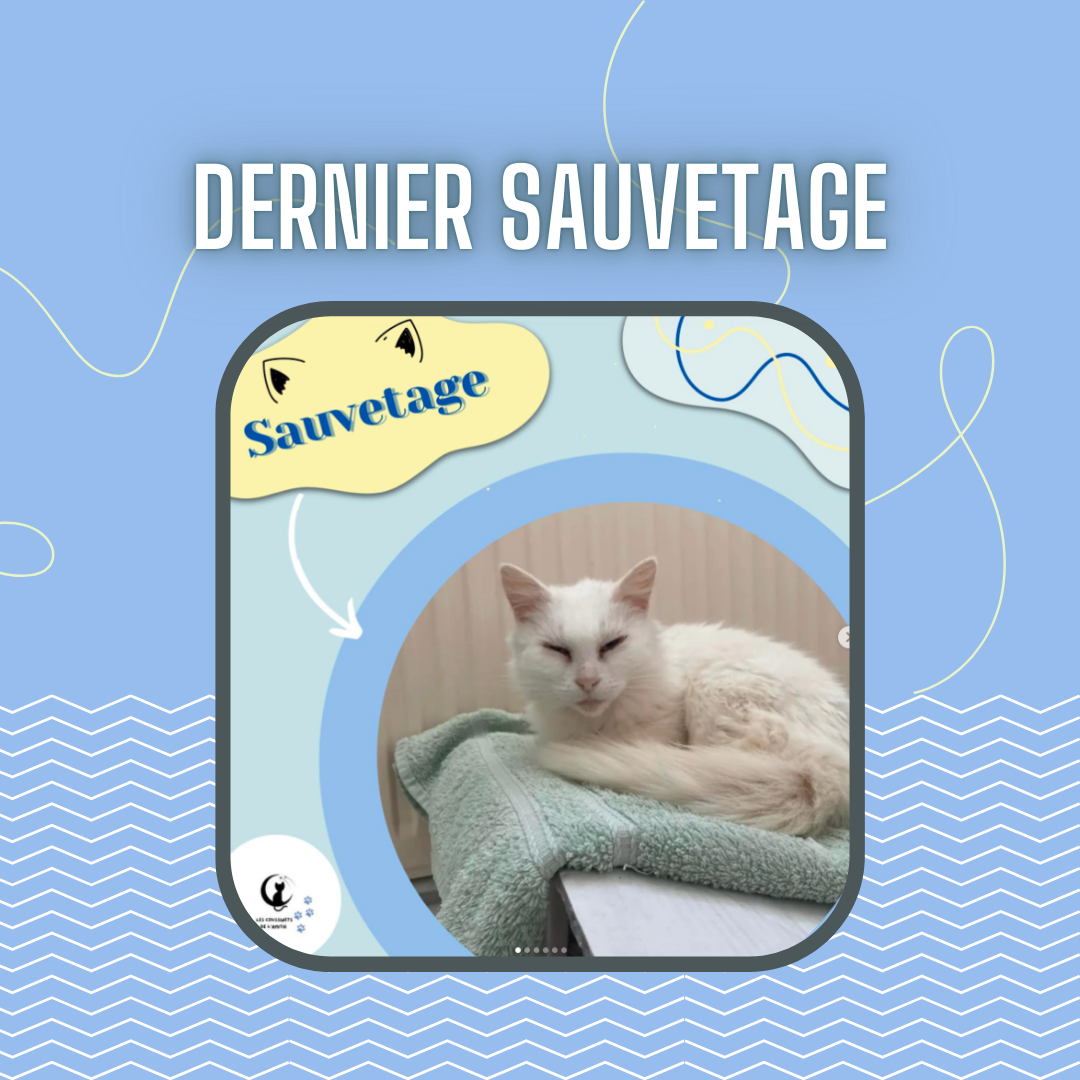
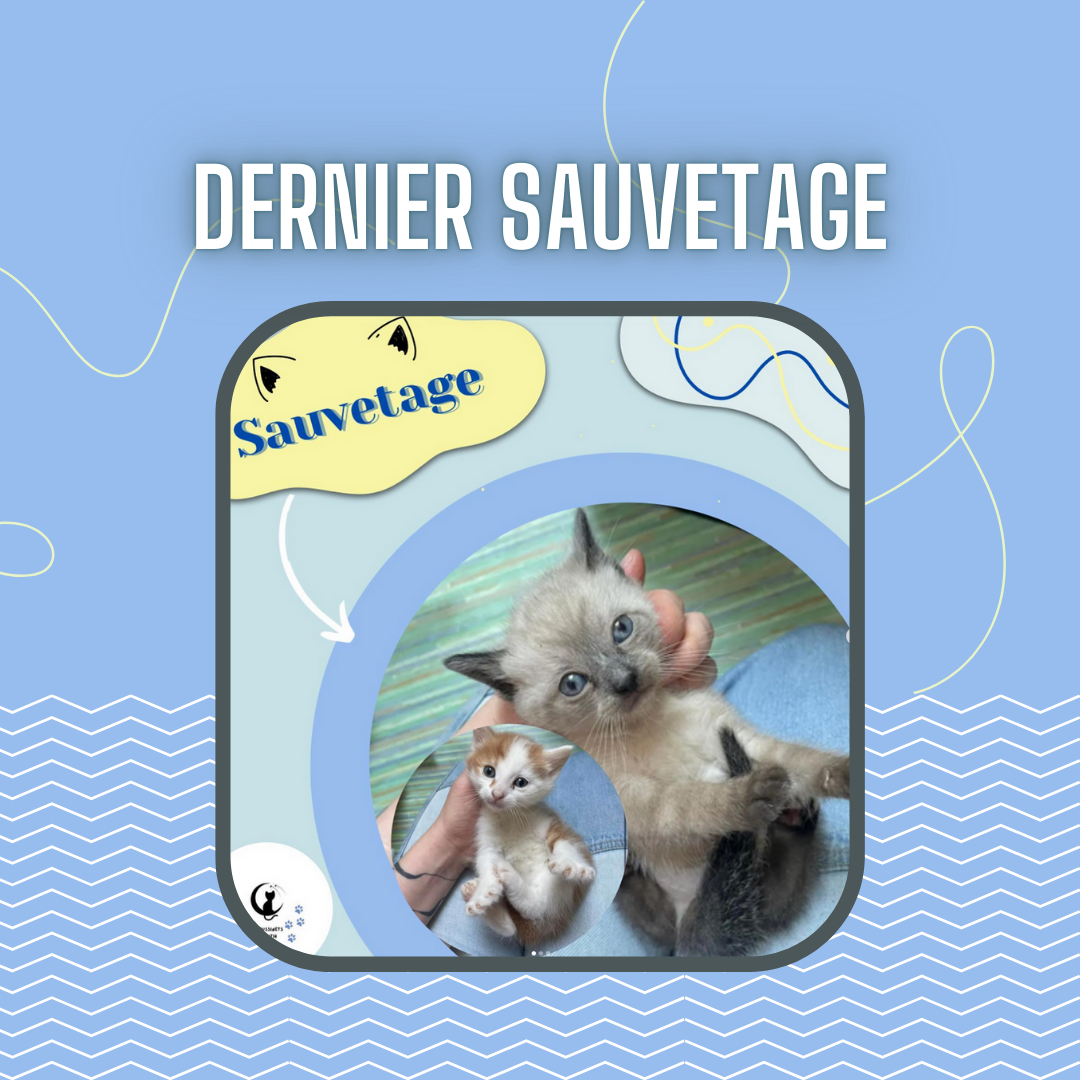
[UPDATE]-16-04-2024

diff --git a/sauvetage.html b/sauvetage.html
@@ -145,7 +145,144 @@
         </div>
 
         <div class="service_container">
-          <div class="box">
+          <div class="col-md-4">
+            <div class="img-box">
+              <a
+                href="https://www.instagram.com/p/C5wR5uJK6IZ/?img_index=1"
+                target="_blank"
+                ><img src="images/Sauvetage/s_basilic.png"
+              /></a>
+            </div>
+            <div class="detail-box">
+              <a
+                href="https://www.instagram.com/p/C5wR5uJK6IZ/?img_index=1"
+                class="detail-box-title"
+                target="_blank"
+                >Basilic</a
+              >
+              <p>
+                Nous vous présentons Basilic (~1 mois et demi), récupéré sur un
+                site de chats sauvages hier. Il serait membre d’une portée de 3
+                mais hier il était seul. <br />
+                Étant sauvage le premier contact fut compliqué, ll n’a pas
+                hésité à mordre et cracher pour se défendre. <br />
+                Maintenant placé en famille d’accueil il se calme peu à peu et
+                commence à apprécier les caresses. Il faudra encore du temps
+                pour travailler sa sociabilisation. 🫶
+                <br />
+                <br />
+                14-04-2024
+              </p>
+              <a
+                href="https://www.instagram.com/p/C5wT8H4KuAz/?img_index=1"
+                target="_blank"
+                ><img src="images/Sauvetage/s_persil_estragon.png"
+              /></a>
+              <a
+                href="https://www.instagram.com/p/C5wT8H4KuAz/?img_index=1"
+                target="_blank"
+                class="detail-box-title"
+                >Persil et Estragon</a
+              >
+              <p>
+                Nous avons trouvé et attrapé les deux frères de Basilic ☝🏻 La
+                fratrie est réunie dans une famille d’accueil pour ne pas les
+                séparer. <br />
+                Nous vous présentons donc Persil (roux et blanc) et Estragon!
+                Nous sommes ravis de vous présenter ce joli petit bouquet
+                aromatique 😽
+                <br />
+                <br />
+                15-04-2024
+              </p>
+            </div>
+          </div>
+          <div class="col-md-4">
+            <div class="img-box">
+              <a
+                href="https://www.instagram.com/p/C5T5y6xqepY/?img_index=1"
+                target="_blank"
+                ><img src="images/Sauvetage/s_coriandre.png"
+              /></a>
+            </div>
+            <div class="detail-box">
+              <a
+                href="https://www.instagram.com/p/C5T5y6xqepY/?img_index=1"
+                class="detail-box-title"
+                target="_blank"
+                >Coriandre</a
+              >
+              <p>
+                Nous vous présentons Coriandre, petite chatte âgée de 8 mois.
+                <br />
+                Coriandre a débarqué il y a trois semaines sur un site de
+                nourrissage de chats errants à Lamotte Beuvron. Très vite, la
+                dame qui s’en occupait, s’est rendue compte qu’elle était très
+                sociable et très mignonne. Elle nous l’a donc emmené mardi à la
+                clinique pour la faire stériliser. Malheureusement, cette dame
+                étant sans solution pour elle, elle risquait d’être relâchée sur
+                le site.😕 Notre présidente a proposé de la prendre en charge à
+                l’association🥰 <br />
+                En plus de sa stérilisation, la demoiselle a été pucée et
+                vaccinée. <br />
+                C’est un amour de chat, très proche de l’humain, un vrai
+                tracteur à ronron😺 <br />
+                Elle sera bientôt à l’adoption. Nous remercions infiniment notre
+                famille d’accueil Émilie pour sa rapidité pour la prise en
+                charge. 🫶
+                <br />
+                <br />
+                28-03-2024
+              </p>
+            </div>
+          </div>
+          <div class="col-md-4">
+            <div class="img-box">
+              <a
+                href="https://www.instagram.com/p/C4qO4WPqHkp/?img_index=1"
+                target="_blank"
+                ><img src="images/Sauvetage/s_bridget.png"
+              /></a>
+            </div>
+            <div class="detail-box">
+              <a
+                href="https://www.instagram.com/p/C4qO4WPqHkp/?img_index=1"
+                class="detail-box-title"
+                target="_blank"
+                >Bridget</a
+              >
+              <p>
+                Aujourd’hui nous vous présentons Bridget. <br />
+                Il y a quelques années, elle avait accès à la maison de sa
+                propriétaire mais malheureusement (indépendamment de la volonté
+                de celle ci) elle s’est retrouvée à vivre dehors depuis 3
+                ans..💔 <br />
+                Non stérilisée, elle a bien sûr enchaîné portée sur portée.
+                <br />
+                C’est une chatte très câline, très pot-de-colle et très proche
+                de l’humain. 🫂 <br />
+                Pour le moment, nous ne savons pas si elle est pleine mais nous
+                pensons que oui.. Nous l’estimons à environ 3/5 ans mais le
+                vétérinaire nous confirmera ça. 🔹Au programme des festivités
+                pour elle ce week end : une bonne douche ou un lavage aux
+                lingettes si vraiment elle n’aime pas 👎, retrait des tiques en
+                pagaille 🤘, brossage et coupe des bourres 👌 <br />
+                Bridget ne sait pas se réguler au niveau de la nourriture. Dès
+                qu’on lui en propose, il faut qu’elle finisse l’intégralité de
+                la gamelle. Et la pâtée est engloutie en deux minutes chrono.
+                Nous allons donc la nourrir par petites doses petit à petit afin
+                qu’elle comprenne que les croquettes seront toujours
+                disponibles. 😻 <br />
+                À part ça, madame est propre. Elle reste cachée lorsqu’elle est
+                seule mais dès que quelqu’un entre et l’appelle, la machine à
+                câlin et ronron est lancée!🫶😽
+                <br />
+                <br />
+                18-03-2024
+              </p>
+            </div>
+          </div>
+          <div class="col-md-4">
             <div class="img-box">
               <a
                 href="https://www.instagram.com/p/C30ZjG6q57U/?img_index=1"
@@ -158,7 +295,7 @@
                 href="https://www.instagram.com/p/C30ZjG6q57U/?img_index=1"
                 class="detail-box-title"
                 target="_blank"
-                >Volga</a
+                >🕊 Volga 🕊</a
               >
               <p>
                 Voici la belle Volga 🫶 <br />
@@ -187,7 +324,7 @@
               </p>
             </div>
           </div>
-          <div class="box">
+          <div class="col-md-4">
             <div class="img-box">
               <a
                 href="https://www.instagram.com/p/C30ZE_kKKGw/?img_index=1"
@@ -224,7 +361,7 @@
               </p>
             </div>
           </div>
-          <div class="box">
+          <div class="col-md-4">
             <div class="img-box">
               <a
                 href="https://www.instagram.com/p/C0uAv2-KDX-/?img_index=1"
@@ -260,7 +397,7 @@
               </p>
             </div>
           </div>
-          <div class="box">
+          <div class="col-md-4">
             <div class="img-box">
               <a
                 href="https://www.instagram.com/p/C0JxNGgK_3Q/?img_index=1"
@@ -299,7 +436,7 @@
               </p>
             </div>
           </div>
-          <div class="box">
+          <div class="col-md-4">
             <div class="img-box">
               <a
                 href="https://www.instagram.com/p/CzYrIedq2Hx/?img_index=1"
@@ -346,7 +483,7 @@
               </p>
             </div>
           </div>
-          <div class="box">
+          <div class="col-md-4">
             <div class="img-box">
               <a
                 href="https://www.instagram.com/p/CzYrmUSqJFi/?img_index=1"
@@ -385,7 +522,7 @@
               </p>
             </div>
           </div>
-          <div class="box">
+          <div class="col-md-4">
             <div class="img-box">
               <a
                 href="https://www.instagram.com/p/CzBudUhKwMT/?img_index=1"
@@ -421,7 +558,7 @@
               </p>
             </div>
           </div>
-          <div class="box">
+          <div class="col-md-4">
             <div class="img-box">
               <a
                 href="https://www.instagram.com/p/Cylff9trCoR/?img_index=1"
@@ -451,7 +588,7 @@
               </p>
             </div>
           </div>
-          <div class="box">
+          <div class="col-md-4">
             <div class="img-box">
               <a
                 href="https://www.instagram.com/p/Cya2xuXK7YT/?img_index=1"
@@ -484,7 +621,7 @@
               </p>
             </div>
           </div>
-          <div class="box">
+          <div class="col-md-4">
             <div class="img-box">
               <a
                 href="https://www.instagram.com/p/CyGvWKEIUcC/?img_index=1"
@@ -513,7 +650,7 @@
               </p>
             </div>
           </div>
-          <div class="box">
+          <div class="col-md-4">
             <div class="img-box">
               <a
                 href="https://www.instagram.com/p/Cx8kst9I75v/?img_index=1"

diff --git a/css/style.css b/css/style.css
@@ -458,18 +458,16 @@ body {
 }
 
 .service_section .service_container {
-  display: -webkit-box;
   display: -ms-flexbox;
   display: flex;
-  -webkit-box-pack: center;
-  -ms-flex-pack: center;
-  justify-content: center;
-  padding: 35px 0;
   -ms-flex-wrap: wrap;
   flex-wrap: wrap;
+  margin-right: -15px;
+  margin-left: -15px;
+  justify-content: center;
 }
 
-.service_section .service_container .box {
+.service_section .service_container .col-md-4 {
   margin: 25px 1%;
   -ms-flex-preferred-size: 31%;
   flex-basis: 31%;
@@ -499,7 +497,6 @@ body {
 
 .service_section .service_container .box-nouvelles .img-box img {
   width: 100%;
-  margin-bottom: 5px;
 }
 
 .service_section .service_container .box-nouvelles .detail-box p {
@@ -519,17 +516,22 @@ body {
   color: #183e7a;
 }
 
-.service_section .service_container .box .img-box img {
+.service_section .service_container .col-md-4 .img-box img {
   width: 100%;
   margin-bottom: 15px;
 }
 
-.service_section .service_container .box .detail-box p {
+.service_section .service_container .col-md-4 .detail-box img {
+  width: 100%;
+  margin-bottom: 15px;
+}
+
+.service_section .service_container .col-md-4 .detail-box p {
   margin-top: 25px;
   font-size: 15px;
 }
 
-.service_section .service_container .box .detail-box h5 {
+.service_section .service_container .col-md-4 .detail-box h5 {
   color: #183e7a;
   font-weight: 600;
   position: relative;
@@ -595,8 +597,8 @@ body {
   text-decoration: none;
 }
 
-.service_section .service_container .box:hover,
-.service_section .service_container .box.active {
+.service_section .service_container .col-md-4:hover,
+.service_section .service_container .col-md-4.active {
   box-shadow: 0 0 30px 0 rgba(0, 0, 0, 0.65);
   background-color: #c6e2e6;
 }

diff --git a/css/responsive.css b/css/responsive.css
@@ -1,12 +1,12 @@
 @media (max-width: 3000px) {
-  .service_section .service_container .box {
+  .service_section .service_container .col-md-4 {
     -ms-flex-preferred-size: 48%;
     flex-basis: 20%;
   }
 }
 
 @media (max-width: 1800px) {
-  .service_section .service_container .box {
+  .service_section .service_container .col-md-4 {
     -ms-flex-preferred-size: 48%;
     flex-basis: 30%;
   }
@@ -63,7 +63,7 @@
     margin-right: 5%;
   }
 
-  .service_section .service_container .box {
+  .service_section .service_container .col-md-4 {
     -ms-flex-preferred-size: 48%;
     flex-basis: 48%;
   }
@@ -112,7 +112,7 @@
     justify-content: center;
   }
 
-  .service_section .service_container .box {
+  .service_section .service_container .col-md-4 {
     flex-basis: 98%;
   }
 

diff --git a/index.html b/index.html
@@ -174,13 +174,6 @@
                     <div class="carousel-inner">
                       <div class="carousel-item active">
                         <div class="img-box">
-                          <a href="a-patou.html"
-                            ><img src="images/Actu/actu_a_patou.png" alt=""
-                          /></a>
-                        </div>
-                      </div>
-                      <div class="carousel-item">
-                        <div class="img-box">
                           <a
                             href="https://lescoussinets.delamitie.fr/sauvetage.html"
                             ><img src="images/Actu/actu_s_last.png" alt=""

diff --git a/adoption.html b/adoption.html
@@ -204,9 +204,7 @@
                   frère de Patty
                 </p>
               </div>
-              <a href="contact.html" class="detail-box-presentation-contact">
-                Nous contacter</a
-              >
+              <a class="detail-box-presentation-adopted"> Adopté !</a>
             </div>
           </div>
           <div class="col-md-4">
